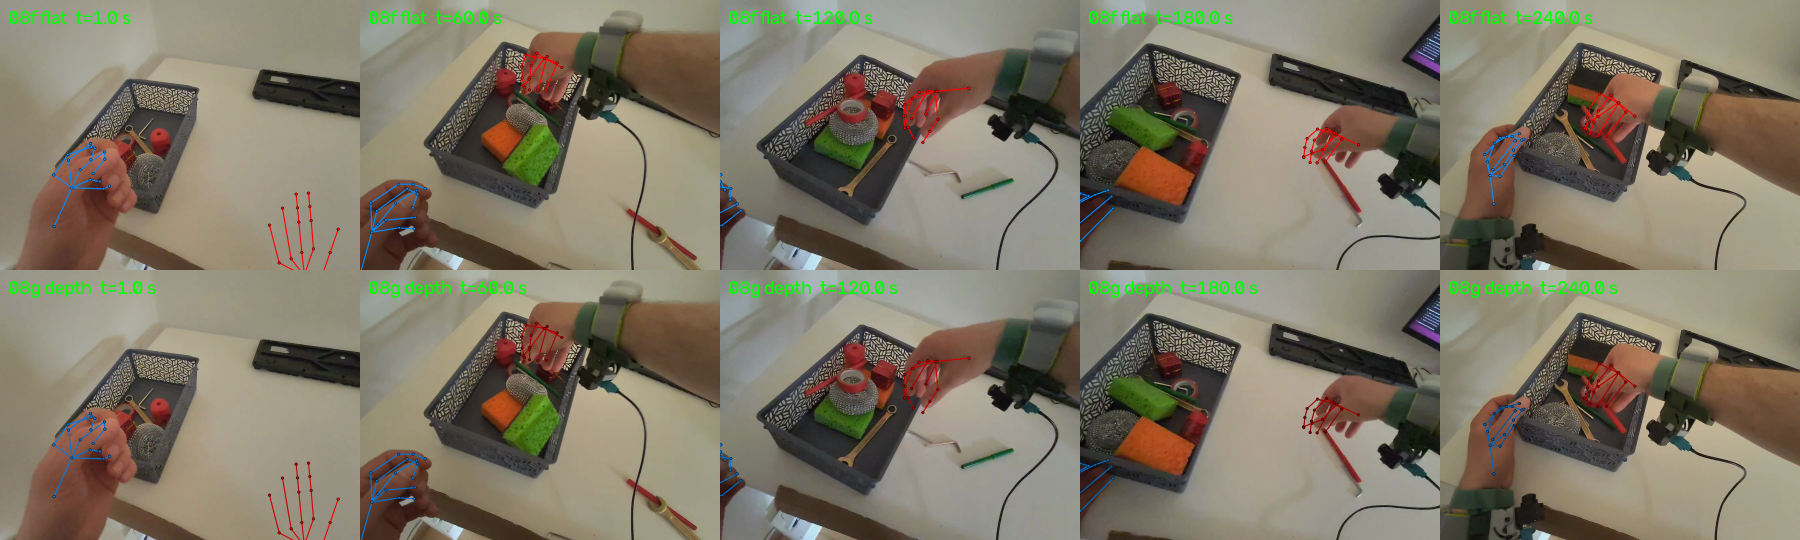
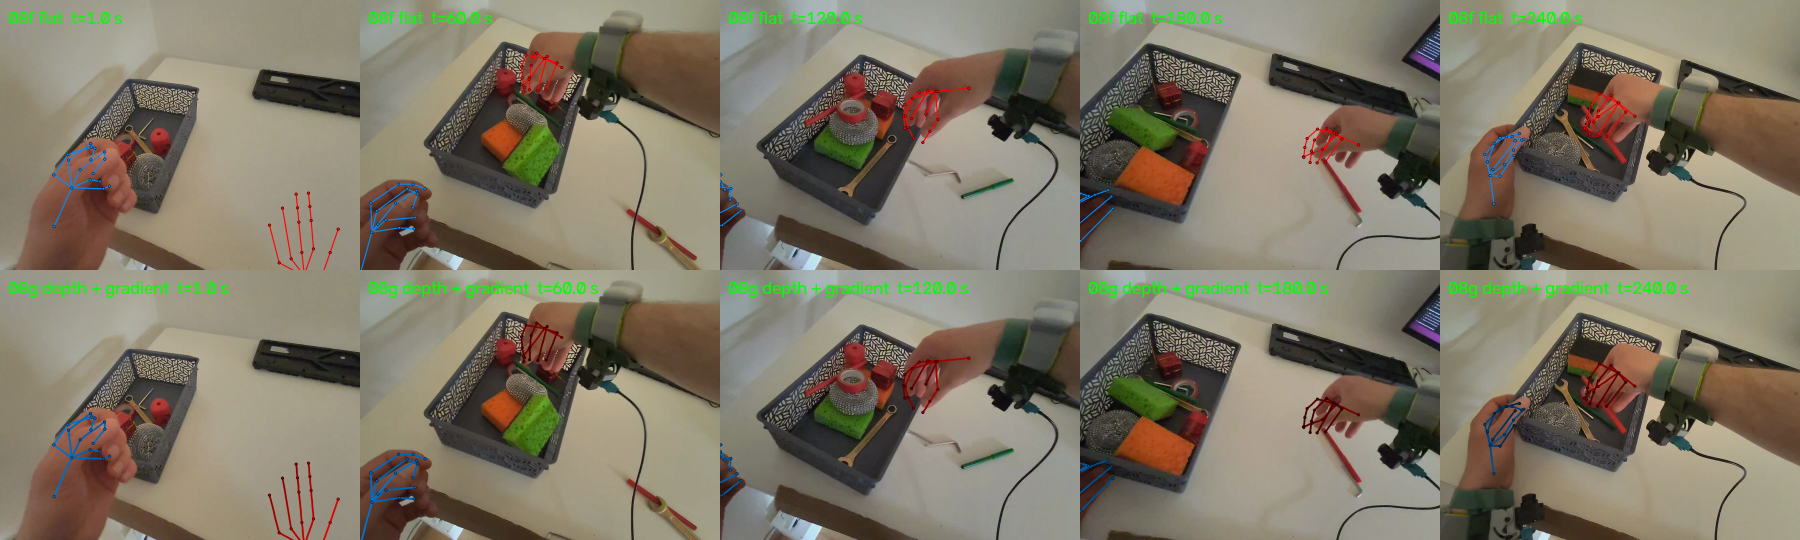
docs: record the depth-shading fix, gradient and 10 s check
Update the 08g section of docs/overlay.md and the README: window
0.22...0.48 m, multiplier 1.0 -> 0.30, a five-segment gradient along each
bone at 3 px, and the measured limits (active hand 1.69-2.04x, idle hand
1.23-1.69x, extreme reach clamps at the floor). Replace the two depth
images with flat/old/new comparisons and add the 08g-fix entry to
docs/NOTES.md. CLAUDE.md gets the new status, decisions and constants.

The quick check is a 10 s fragment (--start 1750 --end 2050): 301
frames, 4.0 MiB, 3.0 s; the full clip was not re-rendered. Tests
572/572; metrics unchanged (07a 40/40 at 0.0 px, bones 10/48 at
60.9 px, drift 34.6 px); flat 5-point and --no-depth-color still match
VTR-08f byte for byte.

diff --git a/docs/overlay.md b/docs/overlay.md
@@ -4,9 +4,9 @@
 
 ![Три скелета на кадрах t = 60.0 и 240.0 с: 5 точек, густой (17) и все 26](images/overlay_dense_vs_five.png)
 
-![Глубина → цвет: 5 кадров 07a, сверху плоские цвета 08f, снизу раскраска 08g](images/overlay_depth_before_after.png)
+![Глубина → цвет: 5 кадров 07a, сверху плоские цвета 08f, снизу раскраска с градиентом](images/overlay_depth_before_after.png)
 
-![Глубина → цвет крупно: правая кисть на кадрах k = 4285 и k = 1800](images/overlay_depth_zoom.png)
+![Глубина → цвет крупно, k = 1800 и k = 4285: плоско / старое окно / новое окно + градиент](images/overlay_depth_zoom.png)
 
 Нижняя сетка — задача 08f: слева прежний 5-точечный скелет (`--five-points`), в центре
 густой по умолчанию (17 суставов на руку), справа все 26 джойнтов OpenXR (`--all-joints`).
@@ -80,35 +80,57 @@
   То есть общая ошибка не выросла, но у густого скелета она честно упирается в форму кисти
   (фаланги сжатых пальцев), а не во время: это тот же предел, что у костной метрики 08e.
 
-## Глубина → цвет (08g)
+## Глубина → цвет (08g, доработка 08g-fix)
+
+> **Доработка 03.11.** Старая версия (окно 0.22…0.58 м, множитель 1.0 → 0.45) давала внутри
+> одной кисти контраст всего 1.11–1.24× — визуально почти неразличимый. Теперь окно сужено до
+> **0.22…0.48 м**, пол множителя опущен до **0.30**, а кость рисуется **пятью отрезками с
+> градиентом** вдоль неё: яркий конец смотрит в камеру. Ниже — актуальные параметры.
 
 - **Что кодируется.** Множитель к цвету руки по глубине сустава в системе камеры
   (`p_cam.z`, а не мировая координата): ближние кости и точки — полный цвет, дальние —
   приглушённые. Оттенок руки (левая голубая, правая красная), геометрия, калибровка и
   поправка времени не меняются — меняется только яркость/насыщенность, второй палитры нет.
-- **Окно абсолютное.** `DEPTH_NEAR_M = 0.22`, `DEPTH_FAR_M = 0.58`, множитель линейно
-  падает от **1.0** до **0.45** (`DEPTH_MIN_FACTOR`) и дальше не опускается. Это метры, а
+- **Окно абсолютное.** `DEPTH_NEAR_M = 0.22`, `DEPTH_FAR_M = 0.48`, множитель линейно
+  падает от **1.0** до **0.30** (`DEPTH_MIN_FACTOR`) и дальше не опускается. Это метры, а
   не min–max по кадру: иначе на паузе и на медленных кадрах скелет «дышал» бы и мигал.
-  Окно выбрано по замеру всей записи (246 619 видимых суставов): `z = 0.072…0.640` м,
-  p1 = 0.238, p99 = 0.551 — рабочий диапазон обеих рук покрыт, хвосты упираются в границы.
+  Окно выбрано замером 14 507 пар «кадр × рука» (z суставов 0.072…0.640 м, средних по
+  костям 0.224…0.556): цель — контраст ближней и дальней кости одной руки ≥ 1.6× на
+  типичных кадрах. Со старыми константами её не выполняла ни одна пара (0 %), с новыми —
+  p50 по суставам **1.61** (≥1.6 у 51 % пар), по средним костям p50 **1.44**.
+- **Градиент вдоль кости.** Ребро рисуется `DEPTH_BONE_SEGMENTS = 5` отрезками; множитель
+  интерполируется по параметру вдоль кости между множителями её концов (у конца — свой
+  `depth_factor(z)`), цвет отрезка — по множителю в его середине. Поэтому даже когда разброс
+  глубины внутри кисти мал, видно, каким концом кость ближе к камере. В режиме глубины кость
+  густого скелета рисуется толщиной **3 px** (`DEPTH_LINE_THICKNESS_PX`): на 2 px градиент
+  почти не читается. Если оба конца дают один множитель (кисть целиком за `DEPTH_FAR_M`),
+  кость рисуется одной линией — без искусственной «ряби».
 - **Направление: ближе — ярче.** Проверено на 5 кадрах 07a и на кадрах с широким разбросом
   глубины (k = 4285, `z = 0.25…0.64`): обратное направление (дальше — ярче) выглядит
-  неестественно — дальние фаланги «светятся» поверх ближних; линейное «ближе ярче»
-  совпадает с бытовым ощущением глубины и оставлено.
-- **Что красится.** И рёбра, и точки: у точки — по её глубине, у кости — по средней
-  глубине её концов. Чёрная обводка точки остаётся всегда, поэтому на светлом фоне
-  (губки, бумага) контраст сохраняется. `NaN` (нет данных) у точки или конца кости даёт
-  полный цвет — отсутствие глубины не повод выцветать.
+  неестественно — дальние фаланги «светятся» поверх ближних; «ближе ярче» оставлено.
+- **Что красится.** И рёбра, и точки: у точки — по её глубине, у кости — градиентом между
+  глубинами концов. Чёрная обводка точки остаётся всегда, поэтому на светлом фоне
+  (губки, бумага) контраст сохраняется. `NaN` (нет данных) или `±inf` у точки или конца
+  кости дают полный цвет — отсутствие глубины не повод выцветать.
 - **Без гаммы и ступеней.** Шкала линейная: монотонность и зажим проверяются тестом, и
   нет второго параметра, который пришлось бы подгонять под отдельные кадры.
-- **Границы эффекта.** Внутри одной кисти разброс глубины невелик (≤ 0.14 м), поэтому
-  тональная разница между фалангами ≤ 1.3× — на 5 кадрах 07a эффект виден в основном
-  между руками (левая ближе), а сильнее всего на кадрах с широким разбросом: на k = 4285
-  средняя яркость красного канала падает 206 → 113. Это свойство данных, а не
-  недокрученная палитра: окно нельзя подгонять под отдельные кадры (карточка 08g).
+- **Границы эффекта (что честно не получается).** Внутри активной кисти на 5 кадрах 07a
+  контраст ближней/дальней кости — **1.69 / 2.04 / 1.94 / 1.67 / 1.83** (k = 30/1800/3600/
+  5400/7200), цель ≥1.6 выполнена. У почти неподвижной левой кисти разброс всего 0.06–0.08 м,
+  поэтому там 1.23–1.69. На k = 4285 правая кисть на вытяжку (0.52–0.63 м) целиком упирается
+  в пол 0.30 — внутри неё градации нет, зато она целиком читается как «дальше». Расширить окно
+  до 0.63 м можно, но тогда типичный контраст падает до ≈1.3× (проверено перебором) — это
+  предел данных при поле множителя 0.30, а не недокрученная палитра. Внутри одной кости
+  разброс глубины ещё меньше (p50 0.020 м), поэтому градиент вдоль неё — подсказка направления,
+  а не «яркость на глаз».
 - **Флаги.** `--depth-color` — включить принудительно, `--no-depth-color` — плоские цвета
   08f. По умолчанию включено для густого скелета и `--all-joints`, а для 5-точечного кадра
-  08a — выключено: он воспроизводится побайтово (PNG 5 кадров 07a совпадают с `VTR-08f`).
+  08a — выключено: он воспроизводится побайтово (PNG 5 кадров 07a и `--no-depth-color`
+  совпадают с `VTR-08f`, sha256 одинаковый).
+- **Быстрая проверка вместо полного клипа.** 10-секундный фрагмент вокруг k = 1800:
+  `--start 1750 --end 2050` → 301 кадр (10.034 с), 1080×810, H.264, **4.0 МиБ**, **3.0 с**
+  (101 кадр/с). Полный клип в доработке не перерендеривался; числа полного прогона 08g —
+  в разделе «Числа прогона» ниже.
 - **Что не менялось.** `T_head_cam`, флаги осей, `VIDEO_TIME_OFFSET_MS` (08c), эталон 08e,
   `Body`. Метрики: 07a — **40/40**, 0.0 px; 08e — **10/48** в допуске, средняя **60.9 px**,
   13 изломов; drift на 50 быстрых кадрах — **34.6 px** (как в 08c).
@@ -165,6 +187,11 @@ trail 0.6 s
   (разницы нет — рендер упирается в кодек), 5 точек на том же фрагменте — 106.9 кадр/с.
   Сама отрисовка кадра (профиль без видео): 6.7 мс у плоского густого скелета против
   9.5 мс с глубиной — 2.7 мс на множители и цвета 34 точек и 32 рёбер.
+- 08g-fix (короткая проверка вместо полного клипа): 301 кадр (1750…2050, 10.034 с), 1080×810,
+  H.264 (`avc1`), **4.0 МиБ**, **3.0 с** (101 кадр/с), 10 234 видимых сустава и 9 208 отрезков
+  следа; 0 кадров вне трекинга. Полный клип 08g (98.7 МиБ / 107.5 с) после доработки не
+  перерендеривался: поменялись только цвет и толщина линий, а не геометрия; полный рендер
+  остаётся штатной командой при финализации.
 - След правой руки виден с кадра 31 по кадр 7262 (кисть входит в кадр / трекинг кончается),
   левой — с кадра 11 по 7231 (левую кисть часто обрезает край кадра).
 
@@ -202,6 +229,10 @@ python src/overlay_video.py data/CameraRecord_*.mp4 --stills output/debug/depth_
     --no-trail --no-hud --no-depth-color
 python src/overlay_video.py data/CameraRecord_*.mp4 --frames 1800,4285 \
     --stills output/debug/depth_cmp --no-trail --no-hud
+
+# короткая проверка 08g-fix: 10 секунд вокруг k = 1800 (301 кадр, ~3 с рендера)
+python src/overlay_video.py data/CameraRecord_*.mp4 --start 1750 --end 2050 \
+    --out output/overlay_10s.mp4
 ```
 
 В репозиторий коммитится только собранная сетка `images/overlay_before_after.png` (2×2 из

diff --git a/docs/NOTES.md b/docs/NOTES.md
@@ -1030,3 +1030,48 @@
   яркость мигает), ближние кости и точки заметнее, дальние не пропадают; окно выбрано по замеру
   всей записи (z = 0.07…0.64 м, p1 0.24, p99 0.55). 5-точечный кадр 08a остаётся плоским и
   воспроизводится побайтово, `--no-depth-color` отключает эффект, калибровка и время не менялись.»
+
+## 2026-11-03 · Задача 08g, доработка (усиление глубины + градиент + 10-с рендер)
+
+- **Что обнаружил:** старый эффект был слабым по двум независимым причинам, обе измерены. (1) Разброс
+  глубины внутри одной кисти куда меньше, чем казалось по суставам: p50 0.101 м по крайним
+  суставам, но только **0.078 м** по средним глубинам костей, а вдоль отдельной кости —
+  **p50 0.020 м, p90 0.040 м** (23 216 костей). При окне 0.22…0.58 м и полу 0.45 это давало
+  контраст ближняя/дальняя кость одной руки всего **1.11–1.24×** на 5 кадрах 07a. (2) Даже при
+  расширении шкалы есть жёсткий предел: при поле множителя 0.30 и диапазоне глубин кистей
+  0.22…0.63 м средний логарифмический наклон — ln(1/0.3)/0.41 ≈ 2.9 на метр, то есть на разбросе
+  0.11 м максимум ≈1.4×; цель 1.6× достижима только там, где локальный наклон выше среднего
+  (середина окна) и пока дальний конец кисти не упёрся в пол. Поэтому «однозначность» даёт не
+  только яркость, но и **градиент вдоль кости** (направление: яркий конец смотрит в камеру).
+- **Как проверил:** замер по 14 507 парам «кадр × рука» (все 7279 кадров) для 9 вариантов окна;
+  выбрано 0.22…0.48 м и пол 0.30 — p50 контраста по суставам 1.61, по костям 1.44, ≥1.6 у 51 %
+  пар (старые константы — 0 %). На 5 кадрах 07a: правая рука **1.69 / 2.04 / 1.94 / 1.67 / 1.83**
+  (k = 30/1800/3600/5400/7200) — цель ≥1.6 выполнена; левая (почти неподвижная, разброс 0.06–0.08 м)
+  даёт 1.23–1.69, а на k = 4285 правая кисть на вытяжку 0.52–0.63 м целиком упирается в пол 0.30
+  (1.00) — там глубина читается как «вся рука дальше», тонкой градации внутри неё нет; это предел
+  данных при поле 0.30, а не ошибка рендера (видно по таблице кандидатов: расширение окна до 0.63 м
+  роняет типичный контраст до 1.3×). Отрендерил «плоско / старое окно / новое окно + градиент» на
+  5 кадрах 07a и на k = 1800/4285: градиент вдоль кости виден на 3 px и почти не виден на 2 px,
+  поэтому в режиме глубины кость для густого скелета рисуется толщиной 3 px (5-точечный кадр не
+  трогается). Регрессии: `calib_search --verify-config` — **40/40, 0.0 px**, кости **10/48, 60.9 px**;
+  `drift_diag.py` — **34.6 px** (ладонь 2.4, запястье 4.1); PNG 5 кадров 07a: 5-точечный кадр и
+  `--no-depth-color` совпадают с `VTR-08f` **побайтово** (sha256 одинаковый). Тесты — **572/572**.
+  Короткий рендер: 301 кадр (1750…2050, 10.034 с) — **4.0 МиБ**, **3.0 с** (101 кадр/с), H.264.
+- **Как решил:** `DEPTH_NEAR_M = 0.22`, `DEPTH_FAR_M = 0.48`, `DEPTH_MIN_FACTOR = 0.30`,
+  `DEPTH_BONE_SEGMENTS = 5`, `DEPTH_LINE_THICKNESS_PX = 3`. Новая чистая функция
+  `bone_gradient_colors(color, depth_start, depth_end, segments=5)` возвращает цвета отрезков:
+  множитель линеен по параметру вдоль кости, цвет отрезка — по множителю в его середине;
+  `math.isfinite` у обоих концов иначе — полный цвет (как раньше). `draw_skeleton` рисует кость
+  этими отрезками, а при одном множителе на всю кость (дальний конец в полу, глубина неизвестна)
+  — одной линией, поэтому плоский режим и `depths=None` побитово прежние. `depth_factor` в крайних
+  точках возвращает ровно 1.0 / `DEPTH_MIN_FACTOR` (без «0.30000000000000004»). `_draw_pose` в
+  режиме глубины для густого/`--all-joints` поднимает толщину линии до 3 px на 1080 (пропорционально
+  кадру), 5-точечный не трогает. Короткий клип 10 с — штатная проверка вместо полного рендера
+  (полный в 08g не перерендеривался).
+- **Что идёт в README:** «Цвет костей кодирует глубину: окно 0.22…0.48 м, множитель 1.0 → 0.30;
+  кость рисуется пятью отрезками с градиентом от ближнего конца к дальнему, толщина 3 px, поэтому
+  видно, какая кость на первом плане. Внутри активной кисти на типичных кадрах контраст ближней и
+  дальней костей 1.7–2.0×; у почти неподвижной кисти разброс меньше, а на предельном выносе рука
+  целиком уходит в нижнюю границу множителя. 5-точечный кадр 08a остаётся плоским и побайтово
+  совпадает с 08f; `--no-depth-color` возвращает плоский рендер. Быстрая проверка — 10-секундный
+  фрагмент (`--start 1750 --end 2050`), а не полный клип.»

diff --git a/README.md b/README.md
@@ -105,10 +105,11 @@ def parse_pose(s):
    джойнтов и 25 рёбер, `--five-points` — 5 точек 08a), цвета: левая голубая, правая красная;
    кость рисуется, только если оба её конца видны, — через «нет данных» линия не проводится.
    У густого скелета цвет кодирует глубину: множитель к цвету руки зависит от `z` сустава в
-   системе камеры (абсолютное окно 0.22…0.58 м, множитель 1.0…0.45), поэтому ближние кости
-   заметнее, дальние не пропадают; 5-точечный кадр 08a остаётся плоским. Плюс затухающий
-   след ладони за 0.6 с (выборка по времени, разрыв на «нет данных») и HUD — время, номер
-   кадра, активность рук, окно следа; подробности — [`docs/overlay.md`](docs/overlay.md).
+   системе камеры (абсолютное окно 0.22…0.48 м, множитель 1.0…0.30), а кость рисуется пятью
+   отрезками с градиентом от ближнего конца к дальнему (толщина 3 px) — видно, какая кость на
+   первом плане; 5-точечный кадр 08a остаётся плоским. Плюс затухающий след ладони за 0.6 с
+   (выборка по времени, разрыв на «нет данных») и HUD — время, номер кадра, активность рук,
+   окно следа; подробности — [`docs/overlay.md`](docs/overlay.md).
 5. **Графики** (`src/plot_trajectory.py`): Plotly — 3D-траектории головы и рук, x(t)/y(t)/z(t),
    скорость, высота рук относительно головы — всё в один self-contained HTML.
 
@@ -293,6 +294,8 @@ data/CameraRecord_*.mp4 --stills output/debug/overlay`.
 плоские цвета 08f, `--depth-color` — включить принудительно, в том числе для 5 точек.
 Сравнение «плоско/по глубине» — [`docs/images/overlay_depth_before_after.png`](docs/images/overlay_depth_before_after.png)
 и [`docs/images/overlay_depth_zoom.png`](docs/images/overlay_depth_zoom.png).
+Быстрая проверка рендера — 10-секундный фрагмент вместо полного клипа (≈3 с, 301 кадр, 4.0 МиБ):
+`python src/overlay_video.py data/CameraRecord_*.mp4 --start 1750 --end 2050 --out output/overlay_10s.mp4`.
 След и HUD отключаются флагами `--no-trail`/`--no-hud`, окно следа — `--trail-seconds`;
 кадры «до/после» для сравнения собираются так:
 `python src/overlay_video.py data/CameraRecord_*.mp4 --stills output/debug/overlay_before
@@ -341,10 +344,12 @@ vr-tracking-viz/
 - Густой скелет точен не лучше 5-точечного: ладонь и запястье ложатся на кисть (2–4 px на
   быстрых кадрах), а фаланги сжатых пальцев уезжают (в среднем 24–52 px, до 170 px на
   костной метрике) — это ограничение восстановления позы кисти, а не тайминга.
-- Раскраска по глубине — это подсказка, а не повышение точности: внутри одной кисти глубина
-  меняется на сантиметры, поэтому разница между фалангами невелика (множитель 1.0…0.45,
-  тональная разница в кадре ≤ 1.3×), а между руками видна хорошо. Окно абсолютное, чтобы
-  яркость не мигала от кадра к кадру; `--no-depth-color` возвращает плоские цвета 08f.
+- Раскраска по глубине — это подсказка, а не повышение точности. Окно абсолютное (0.22…0.48 м,
+  множитель 1.0…0.30), градиент вдоль кости показывает, каким концом она ближе к камере, а
+  контраст ближней/дальней кости активной кисти на типичных кадрах — 1.7–2.0×. У почти
+  неподвижной кисти разброс глубины меньше (0.06–0.08 м), поэтому там 1.3–1.7×, а на предельном
+  выносе рука целиком уходит в нижнюю границу множителя — тонкой градации внутри неё нет.
+  Яркость не мигает от кадра к кадру; `--no-depth-color` возвращает плоские цвета 08f.
 - Запись содержит только жест-трекинг (контроллеры не писались).
 
 ## Ссылки
